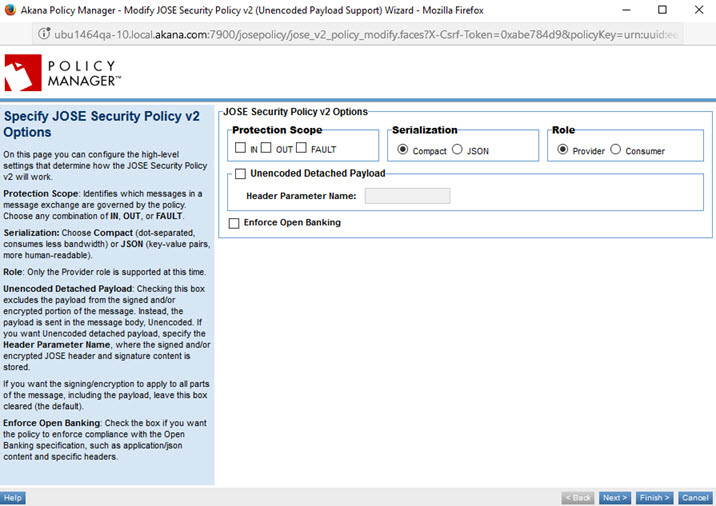
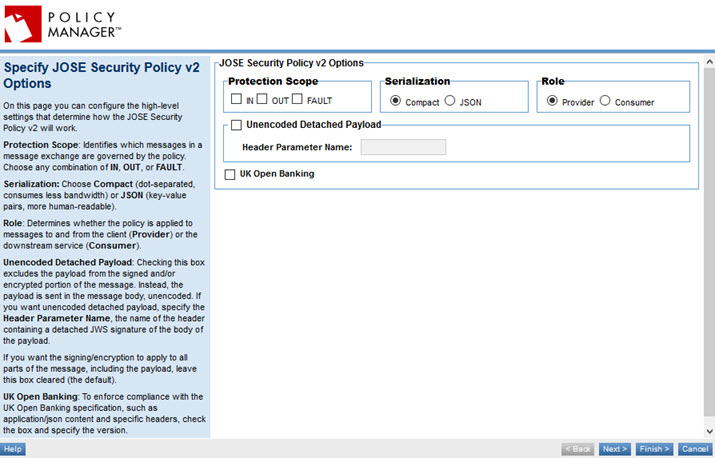
ATMO-27436 copy mods + images re OB for JOSE + HTML message validation policies.

Changed region(s): [[0.0, 0.0, 1.0, 1.0], [0.9231, 0.0, 0.9846, 0.0306]]

diff --git a/ag/policies/policy_op_jose_security_v2.htm b/ag/policies/policy_op_jose_security_v2.htm
@@ -12,9 +12,8 @@ nav-title: JOSE Security v2
 <h2 id="top">Using the JOSE Security Policy v2 (Unencoded Payload Support)</h2>
 <p>Learn how to use the JOSE Security Policy v2 (Unencoded Payload Support) to sign and encrypt JSON message content.</p>
 
-<p>
-<a href="about_policies_view.htm" class="button secondary">About Policies</a>  
-<a href="policy_management.htm" class="button secondary">Managing Policies</a>  
+<p><a href="about_policies_view.htm" class="button secondary">About Policies</a> 
+<a href="policy_management.htm" class="button secondary">Managing Policies</a> 
 <a href="policies_operational_about.htm" class="button secondary">About Operational Policies</a></p>
 <p>For information about using policies in the context of the developer portal, see <a href="../../cm/learnmore/bus_admin_organizations.htm#h_business_policies">Business Policies</a>.</p>
 <h5 class="stamp">Supported Platforms: 8.4.17 and later</h5>
@@ -66,7 +65,7 @@ nav-title: JOSE Security v2
 <ul>
 	<li>Support of the Unencoded Payload specification</li>
 	<li>Support of additional algorithms (PS256, PS384, and PS512)</li>
-	<li>Support of the <strong>crit</strong> claim required by the Open Banking specification</li>
+	<li>Support of the UK Open Banking specification (for details see below)</li>
 	<li>JWKS support (when configured for consumer Apps in the App OAuth Profile)</li>
 </ul>
 <p><a href="#top">back to top</a></p>
@@ -81,7 +80,7 @@ nav-title: JOSE Security v2
 	</ul>
 <p>In addition, it supports the following versions of the UK Open Banking specification:</p>
 <ul>
-	<li>2.0: <a href="https://openbanking.atlassian.net/wiki/spaces/DZ/pages/127009221/Read+Write+Data+API+Specification+-+v2.0.0" title="https://openbanking.atlassian.net/wiki/spaces/DZ/pages/127009221/Read+Write+Data+API+Specification+-+v2.0.0" target="_blank">https://openbanking.atlassian.net/wiki/spaces/DZ/pages/127009221/Read+Write+Data+API+Specification+-+v2.0.0</a></li>
+	<li>Versions 3.0 and earlier, for example 2.0: <a href="https://openbanking.atlassian.net/wiki/spaces/DZ/pages/127009221/Read+Write+Data+API+Specification+-+v2.0.0" title="https://openbanking.atlassian.net/wiki/spaces/DZ/pages/127009221/Read+Write+Data+API+Specification+-+v2.0.0" target="_blank">https://openbanking.atlassian.net/wiki/spaces/DZ/pages/127009221/Read+Write+Data+API+Specification+-+v2.0.0</a></li>
 	<li>3.1: <a href="https://openbanking.atlassian.net/wiki/spaces/DZ/pages/937656404/Read+Write+Data+API+Specification+-+v3.1" title="https://openbanking.atlassian.net/wiki/spaces/DZ/pages/937656404/Read+Write+Data+API+Specification+-+v3.1" target="_blank">https://openbanking.atlassian.net/wiki/spaces/DZ/pages/937656404/Read+Write+Data+API+Specification+-+v3.1</a></li>
 </ul>
 <p><a href="#top">Back to top</a></p>
@@ -92,10 +91,11 @@ nav-title: JOSE Security v2
 <p>The JOSE Security Policy v2 includes the option to enable Open Banking support (Version 8.4.18 and later).</p>
 <p>This policy supports UK Open Banking versions as specified above.</p>
 <p>When you enable this feature, the policy enforces additional rules determined by the Open Banking specification that you specify.</p>
-<p>Some examples of Open Banking support are:</p>
+<p>Some examples of UK Open Banking support are:</p>
 <ul>
 	<li><a href="#jose_ob_ct_accept">Content-Type and Accept header values</a></li>
 	<li><a href="#jose_ob_crit"><strong>crit</strong> claim</a></li>
+	<li><a href="#jose_ob_iat"><strong>iat</strong> claim</a></li>
 	<li><a href="#jose_ob_iss"><strong>iss</strong> claim</a></li>
 	<li><a href="#jose_ob_tan"><strong>tan</strong> claim</a> (v3.1)</li>
 	<li><a href="#jose_ob_typ"><strong>typ</strong> claim</a> (v3.1)</li>
@@ -108,9 +108,9 @@ nav-title: JOSE Security v2
 
 <h4 id="jose_ob_crit">crit claim</h4>
 <p>The JOSE Security Policy v2 supports the required <strong>crit</strong> claim with specific values.</p>
-<p><strong>2.0:</strong></p>
-<p>For Open Banking 2.0, the JOSE policy v2 supports sending the custom <strong>iat</strong> and <strong>iss</strong> claims, and supports specifying those custom claims in the <strong>crit</strong> claim, as per the specification.</p>
-<p>In version 2.0, the <strong>crit</strong> claim is required, and must be a string array of the three specific values shown below:</p>
+<p><strong>3.0 and earlier:</strong></p>
+<p>For Open Banking 3.0 and earlier, the JOSE policy v2 supports sending the custom <strong>iat</strong> and <strong>iss</strong> claims, and supports specifying those custom claims in the <strong>crit</strong> claim, as per the specification.</p>
+<p>For example, in version 2.0, the <strong>crit</strong> claim is required, and must be a string array of the three specific values shown below:</p>
 <pre>"b64", "http://openbanking.org.uk/iat", "http://openbanking.org.uk/iss"</pre>
 <p><strong>3.1:</strong></p>
 <p>In version 3.1, the JOSE Security Policy v2 supports sending the additional <strong>tan</strong> claim which is required, see <a href="#jose_ob_tan"><strong>tan</strong> claim</a> below, and supports including the <strong>tan</strong> claim in the <strong>crit</strong> claim, as per the specification.</p>
@@ -119,10 +119,17 @@ nav-title: JOSE Security v2
 <p>For more information, see the Open Banking 3.1 specification: <a href="https://openbanking.atlassian.net/wiki/spaces/DZ/pages/937656404/Read+Write+Data+API+Specification+-+v3.1#Read/WriteDataAPISpecification-v3.1-ProcessforSigningaPayload" title="https://openbanking.atlassian.net/wiki/spaces/DZ/pages/937656404/Read+Write+Data+API+Specification+-+v3.1#Read/WriteDataAPISpecification-v3.1-ProcessforSigningaPayload" target="_blank">https://openbanking.atlassian.net/wiki/spaces/DZ/pages/937656404/Read+Write+Data+API+Specification+-+v3.1#Read/WriteDataAPISpecification-v3.1-ProcessforSigningaPayload</a> (Step 2).</p>
 
 
+<h4 id="jose_ob_iat">iat claim</h4>
+<p>JOSE Security Policy v2 supports the custom <strong>iat</strong> private header parameter claim.</p>
+<p>For this claim, the details are the same for 2.0/3.0 and 3.1.</p>
+<p>The JOSE policy v2 supports sending the <strong>iat</strong> claim, which must be a JSON number representing a <a href="../../cm/learnmore/basics_glossary.htm#gl_coordinateduniversaltime">UTC</a> value, and validates it per the specification.</p>
+
+
 <h4 id="jose_ob_iss">iss claim</h4>
 <p>JOSE Security Policy v2 supports the custom <strong>iss</strong> private header parameter claim.</p>
-<p><strong>2.0:</strong></p>
-<p>For version 2.0, the <strong>iss</strong> claim must be a string with the ID of the third-party provider, and it must match the domain name of the signing certificate.</p>
+<p><strong>3.0 and earlier:</strong></p>
+<p>For Open Banking 3.0 and earlier, the JOSE policy v2 supports sending the <strong>iss</strong> claim, and supports specifying it in the <strong>crit</strong> claim, as per the specification.</p>
+<p>For example, for version 2.0, the <strong>iss</strong> claim must be a string with the ID of the third-party provider, and it must match the domain name of the signing certificate.</p>
 <p><strong>3.1:</strong></p>
 <p>For version 3.1, a JOSE policy using the JWKS URL option can retrieve the certificate to verify the <strong>iss</strong> claim from the JWKS rather than requiring the <strong>x5c</strong> claim to be in the JWS header. When retrieving the certificate, the policy looks in the following locations, in the specified sequence:</p>
 <ol>
@@ -145,7 +152,7 @@ nav-title: JOSE Security v2
 <p>For more information, see the Open Banking 3.1 specification: <a href="https://openbanking.atlassian.net/wiki/spaces/DZ/pages/937656404/Read+Write+Data+API+Specification+-+v3.1#Read/WriteDataAPISpecification-v3.1-ProcessforSigningaPayload" title="https://openbanking.atlassian.net/wiki/spaces/DZ/pages/937656404/Read+Write+Data+API+Specification+-+v3.1#Read/WriteDataAPISpecification-v3.1-ProcessforSigningaPayload" target="_blank">https://openbanking.atlassian.net/wiki/spaces/DZ/pages/937656404/Read+Write+Data+API+Specification+-+v3.1#Read/WriteDataAPISpecification-v3.1-ProcessforSigningaPayload</a> (Step 2).</p>
 
 
-<p>For full details, see <a href="#jose_unenc_options_p1">Configuring JOSE Security Policy v2 options</a> below (<a href="#enforce_open_banking">Enforce Open Banking</a> section).</p>
+<p>For full details, see <a href="#jose_unenc_options_p1">Configuring JOSE Security Policy v2 options</a> below (<a href="#http_msg_validation_uk_ob">UK Open Banking</a> section).</p>
 <p><a href="#top">back to top</a></p>
 
 
@@ -196,7 +203,7 @@ nav-title: JOSE Security v2
 
 <h3 id="jose_unenc_options_p1">Configuring JOSE Security Policy v2 options</h3>
 <p><img src="images/jose_v2_01_options.jpg" alt="JOSE Security Policy v2 (Unencoded Payload Support): policy options" /></p>
-<p>On the <strong>Specify JOSE Security Policy v2 Options</strong> page, you specify general configuration settings. Refer to the details below.</p>
+<p>On the <strong>Specify JOSE Security Policy v2 Options</strong> page, specify general configuration settings. Refer to the details below.</p>
 
 <dl>
 <dt>Protection Scope</dt>
@@ -242,15 +249,10 @@ nav-title: JOSE Security v2
 <pre>{&quot;kid&quot;:&quot;signKey&quot;,&quot;alg&quot;:&quot;RS256&quot;,&quot;cty&quot;:&quot;application/json&quot;}</pre></dd>
 
 
-<dt id="enforce_open_banking">Enforce Open Banking (8.4.18 and later)</dt>
-<dd>Check this box if you want this policy to enforce the additional requirements of the Open Banking specification (<a href="https://openbanking.atlassian.net/wiki/spaces/DZ/pages/4011436/Payment+Initiation+API+Specification+-+v1.0.0" title="Link to Open Banking specification" target="_blank">https://openbanking.atlassian.net/wiki/spaces/DZ/pages/4011436/Payment+Initiation+API+Specification+-+v1.0.0</a>). If you choose this option, the policy enforces the following additional rules as per the Open Banking specification:
-	<ul>
-	<li>The Content-Type header must be set to <strong>application/json</strong>.</li>
-	<li>If there is an Accept header, it is set to <strong>application/json</strong>.</li>
-	<li>The <strong>crit</strong> claim is a string array of the <strong>b64</strong>, <strong>iat</strong>, and <strong>iss</strong> claims: &quot;b64&quot;, &quot;http://openbanking.org.uk/iat&quot;, &quot;http://openbanking.org.uk/iss&quot;.</li>
-	<li>The values for the <strong>iat</strong> and <strong>iss</strong> claims comply with the Open Banking specification, as per the above.</li>
-</ul>
-</dd>
+<dt id="http_msg_validation_uk_ob">UK Open Banking (8.4.18 and later, 3.1 support 2018.0.4)</dt>
+<dd>Enable this option for conformance to the UK <a href="../../cm/learnmore/basics_glossary.htm#gl_openbanking">Open Banking</a> specification. Check the box and then specify the version. Versions up to 3.1 are supported, as shown below.</dd>
+<dd><img src="images/jose_policyoptions_ob.jpg" alt="Specify JOSE Policy v2 Option for Open Banking" /></dd>
+<dd>If you choose this option, the policy enforces additional rules as per the Open Banking specification. For details, see <a href="#jose_unenc_support_open_banking">JOSE Security Policy v2 support of the Open Banking specification</a>.</dd>
 </dl>
 <p>Click <strong>Next</strong> to go to the next page, which is determined by your choice in the <strong>Protection Scope</strong> field:</p>
 <ul>
@@ -302,7 +304,7 @@ nav-title: JOSE Security v2
 
 <h3 id="jose_unenc_options_out_provider">Configuring JOSE Security Policy v2 OUT Message options for Provider</h3>
 <p><img src="images/jose_v2_03_options_out_provider.jpg" alt="JOSE Security Policy v2 (Unencoded Payload Support): OUT options (Provider role)" /></p>
-<p>If you choose a Protection Scope of <strong>OUT</strong> and/or <strong>FAULT </strong> and a role of <strong>Provider</strong>, you'll need to determine signing and encryption settings for outbound messages.</p>
+<p>If you choose a Protection Scope of <strong>OUT</strong> and/or <strong>FAULT</strong> and a role of <strong>Provider</strong>, you'll need to determine signing and encryption settings for outbound messages.</p>
 <p>If you choose to sign and/or encrypt content for OUT and/or FAULT messages, configure the signing and encryption options. The settings will apply to OUT messages, FAULT messages, or both.</p>
 <p>You can also specify one or more private headers. This page has three sections:</p>
 <ul>
@@ -431,7 +433,7 @@ nav-title: JOSE Security v2
 <h3 id="jose_unenc_options_out_consumer">Configuring JOSE Security Policy v2 OUT Message options for Consumer</h3>
 <p><strong>Valid in version: 2018.0.0 and later</strong></p>
 <p><img src="images/jose_v2_05_options_out_consumer.jpg" alt="JOSE Security Policy v2 (Unencoded Payload Support): OUT options (Consumer role)" /></p>
-<p>If you choose a Protection Scope of <strong>OUT</strong> and/or <strong>FAULT </strong> and a role of <strong>Consumer</strong>, you'll need to configure the signing and encryption options for outbound messages to the client. When the messages come in from the downstream service, the platform will apply these settings to the content and send it to the client.</p>
+<p>If you choose a Protection Scope of <strong>OUT</strong> and/or <strong>FAULT</strong> and a role of <strong>Consumer</strong>, you'll need to configure the signing and encryption options for outbound messages to the client. When the messages come in from the downstream service, the platform will apply these settings to the content and send it to the client.</p>
 <p>There are two main categories of settings: <strong>Signed Content</strong> and <strong>Encrypted Content</strong>. For each, if you choose to sign and/or encrypt, additional configuration options are available so that you can specify the identity of the signed content for IN messages, as shown below.</p>
 <dl>
 <dt>Signed content, Subject Category</dt>
@@ -559,8 +561,8 @@ nav-title: JOSE Security v2
 <h4 id="json_det_no">JSON format, not detached</h4>
 <p>Refer to RFC 7797 JWS specification:</p>
 <ul>
-	<li>Section: <a href="https://tools.ietf.org/html/rfc7797#section-5.3" target="_blank">5.3.  Unencoded JWS JSON Serialization Payload</a>.</li>
-	<li>Example: <a href="https://tools.ietf.org/html/rfc7797#section-4.1" target="_blank">4.1.  Example with Header Parameters {&quot;alg&quot;:&quot;HS256&quot;}</a>.</li>
+	<li>Section: <a href="https://tools.ietf.org/html/rfc7797#section-5.3" target="_blank">5.3. Unencoded JWS JSON Serialization Payload</a>.</li>
+	<li>Example: <a href="https://tools.ietf.org/html/rfc7797#section-4.1" target="_blank">4.1. Example with Header Parameters {&quot;alg&quot;:&quot;HS256&quot;}</a>.</li>
 </ul>
 <p>The example below shows a response message in JSON format with the payload not detached.</p>
 <p><strong>Body (payload)</strong></p>
@@ -592,7 +594,7 @@ oCFYaoEOkGZlREUmWcQtQ",
 <p>Refer to RFC 7797 JWS specification:</p>
 <ul>
 	<li>Section: <a href="https://tools.ietf.org/html/rfc7797#section-5.1" target="_blank">5.1. Unencoded Detached Payload</a>.</li>
-	<li>Example: <a href="https://tools.ietf.org/html/rfc7797#section-4.2" target="_blank">4.2.  Example with Header Parameters</a>.</li>
+	<li>Example: <a href="https://tools.ietf.org/html/rfc7797#section-4.2" target="_blank">4.2. Example with Header Parameters</a>.</li>
 </ul>
 <p>The detached versions of JSON is similar, but the payload is unsigned. The payload is sent in the body of the message, and the other values are sent in a header. The name of the header is defined as part of the policy definition setup.</p>
 <p>The example below shows the same response message used in the previous example, in JSON format with detached payload.</p>
@@ -624,7 +626,7 @@ stmZKsRWrVx-tnmLX7aIhz9NL0jOmRf1deh4HAenk7JKPzUgAxZssylmTCivkuV10yrdlIgyUYELkHNz
 <p>Refer to RFC 7797 JWS specification:</p>
 <ul>
 	<li>Section: <a href="https://tools.ietf.org/html/rfc7797#section-5.1" target="_blank">5.1. Unencoded Detached Payload</a>.</li>
-	<li>Example: <a href="https://tools.ietf.org/html/rfc7797#section-4.1" target="_blank">4.1.  Example with Header Parameters {"alg":"HS256"}</a>.</li>
+	<li>Example: <a href="https://tools.ietf.org/html/rfc7797#section-4.1" target="_blank">4.1. Example with Header Parameters {"alg":"HS256"}</a>.</li>
 </ul>
 <p>With Compact format, the request is similar in structure, but it's not a JSON object.</p>
 <p>It is simply a compact version of the information. The values should be the same, if the content is the same.</p>
@@ -646,8 +648,8 @@ nJCpGiq_3r_6Ygb64YjnjSMScoF2-f8z8mGZptOZsojzlI_bcJ3yFRyzit__uwQcyMBQ73maen9gZnXb
 <h4 id="compact_det_yes">Compact format, detached</h4>
 <p>Refer to RFC 7797 JWS specification:</p>
 <ul>
-	<li>Section: <a href="https://tools.ietf.org/html/rfc7797#section-5.2" target="_blank">5.2.  Unencoded JWS Compact Serialization Payload</a>.</li>
-	<li>Example: <a href="https://tools.ietf.org/html/rfc7797#section-4.2" target="_blank">4.2.  Example with Header Parameters</a>.</li>
+	<li>Section: <a href="https://tools.ietf.org/html/rfc7797#section-5.2" target="_blank">5.2. Unencoded JWS Compact Serialization Payload</a>.</li>
+	<li>Example: <a href="https://tools.ietf.org/html/rfc7797#section-4.2" target="_blank">4.2. Example with Header Parameters</a>.</li>
 </ul>
 <p>As with detached JSON, the payload is unsigned, so the middle part of the message, between the two periods, is missing. The raw payload is sent with the request or returned with the response.</p>
 <p>In this scenario, the detached payload goes into a header.</p>

diff --git a/ag/policies/policy_op_http_message_validation.htm b/ag/policies/policy_op_http_message_validation.htm
@@ -13,8 +13,8 @@ nav-title: HTTP Message Validation
 <p>Learn how to use the HTTP Message Validation policy to validate HTTP messages based on criteria contained in the API description document that was used to define the API (Swagger, RAML, or WADL).</p>
 
 <p>
-	<a href="about_policies_view.htm" class="button secondary">About Policies</a>  
-	<a href="policy_management.htm" class="button secondary">Managing Policies</a>  
+	<a href="about_policies_view.htm" class="button secondary">About Policies</a> 
+	<a href="policy_management.htm" class="button secondary">Managing Policies</a> 
 	<a href="policies_operational_about.htm" class="button secondary">About Operational Policies</a>
 </p>
 <p>For information about using policies in the context of the developer portal, see <a href="../../cm/learnmore/bus_admin_organizations.htm#h_business_policies">Business Policies</a>.</p>
@@ -144,9 +144,11 @@ nav-title: HTTP Message Validation
 <dd><strong>Key benefit</strong>: Enabled: more relaxed validation. Disabled: stricter adherence to JSON Schema rules.</dd>
 
 
-<dt>Enforce Open Banking </dt>
+<dt id="http_msg_validation_uk_ob">UK Open Banking</dt>
 <dd><strong>Version: 2018.0.4 and later</strong></dd>
-<dd>Enable this option for conformance to the UK <a href="../../cm/learnmore/basics_glossary.htm#gl_openbanking">Open Banking</a> specification. When this option is enabled, the error messages returned to the API client application are formatted according to the Open Banking specification. By default, only a generic summary error message is returned.</dd>
+<dd>Enable this option for conformance to the UK <a href="../../cm/learnmore/basics_glossary.htm#gl_openbanking">Open Banking</a> specification. Check the box and then specify the version. Versions up to 3.1 are supported, as shown below.</dd>
+<dd><img src="images/http_message_validation_ob.jpg" alt="Specify HTTP Message Validation Policy Options for Open Banking" /></dd>
+<dd>When this option is enabled, the error messages returned to the API client application are formatted according to the Open Banking specification. By default, only a generic summary error message is returned.</dd>
 <dd><strong>Note</strong>: The API Gateway container log always contains all message validation error details.</dd>
 
 
@@ -304,7 +306,7 @@ nav-title: HTTP Message Validation
 </ul>
 
 <h5 id="sample_request">Sample request JSON</h5>
-<p>In the example below, from a Swagger definition, properties are defined for the  request. The policy matches the incoming API request against this definition, and returns an error if any of the fields don't match the definition. In this example, the properties are named to indicate the type of acceptable input.</p>
+<p>In the example below, from a Swagger definition, properties are defined for the request. The policy matches the incoming API request against this definition, and returns an error if any of the fields don't match the definition. In this example, the properties are named to indicate the type of acceptable input.</p>
 <p>For example, the policy would reject a request to this API if a mandatory field is missing, if the specified data type doesn't match, or if a field value doesn't match specified constraints.</p>
 <pre>{
   "mandatoryString": "String",
